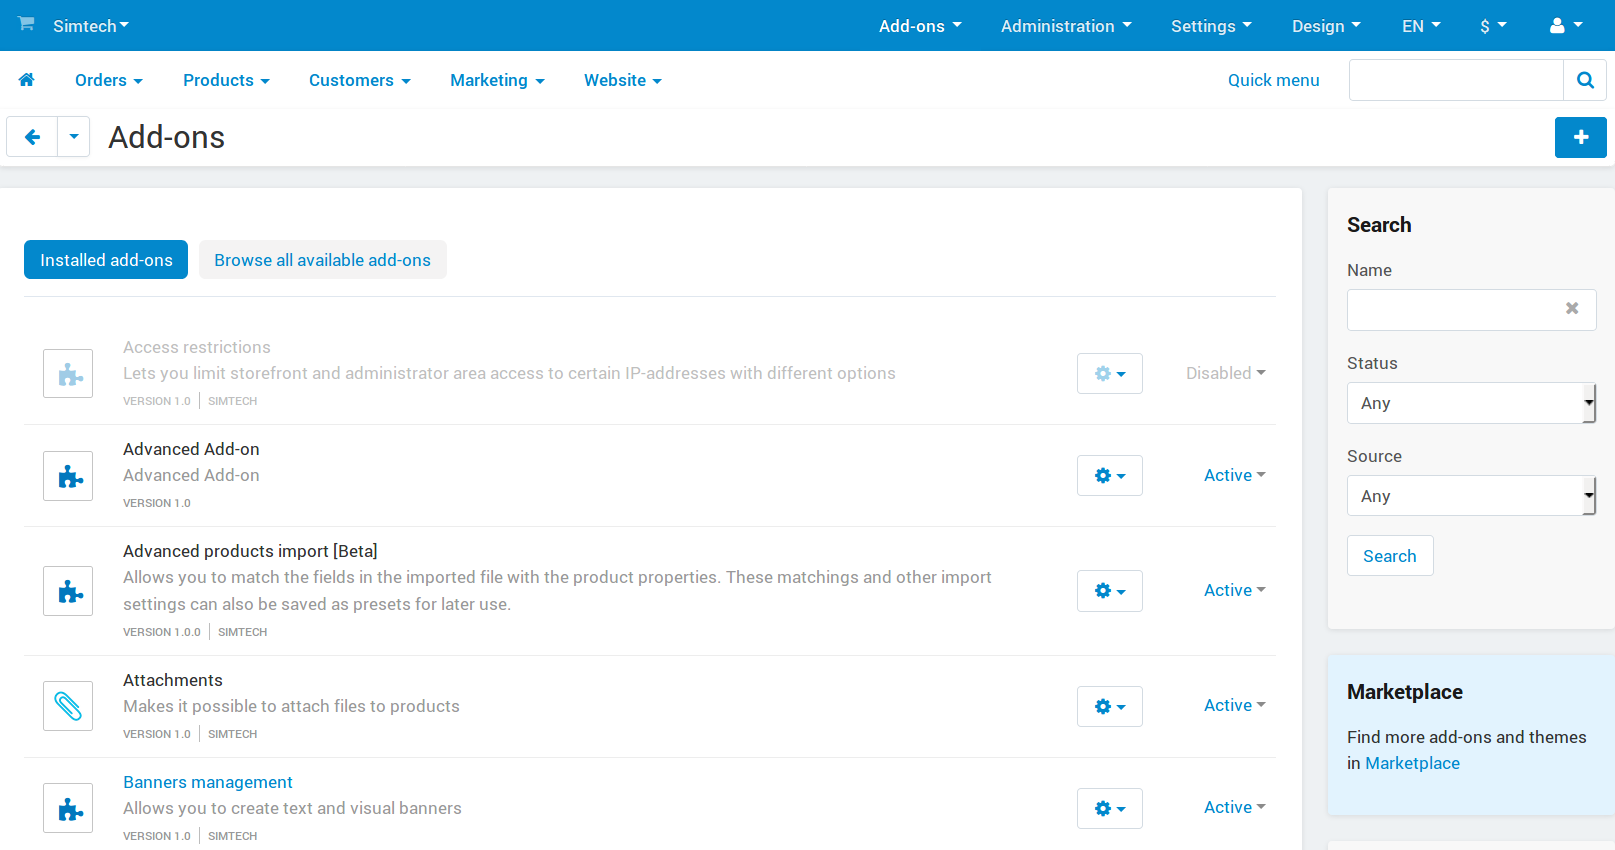
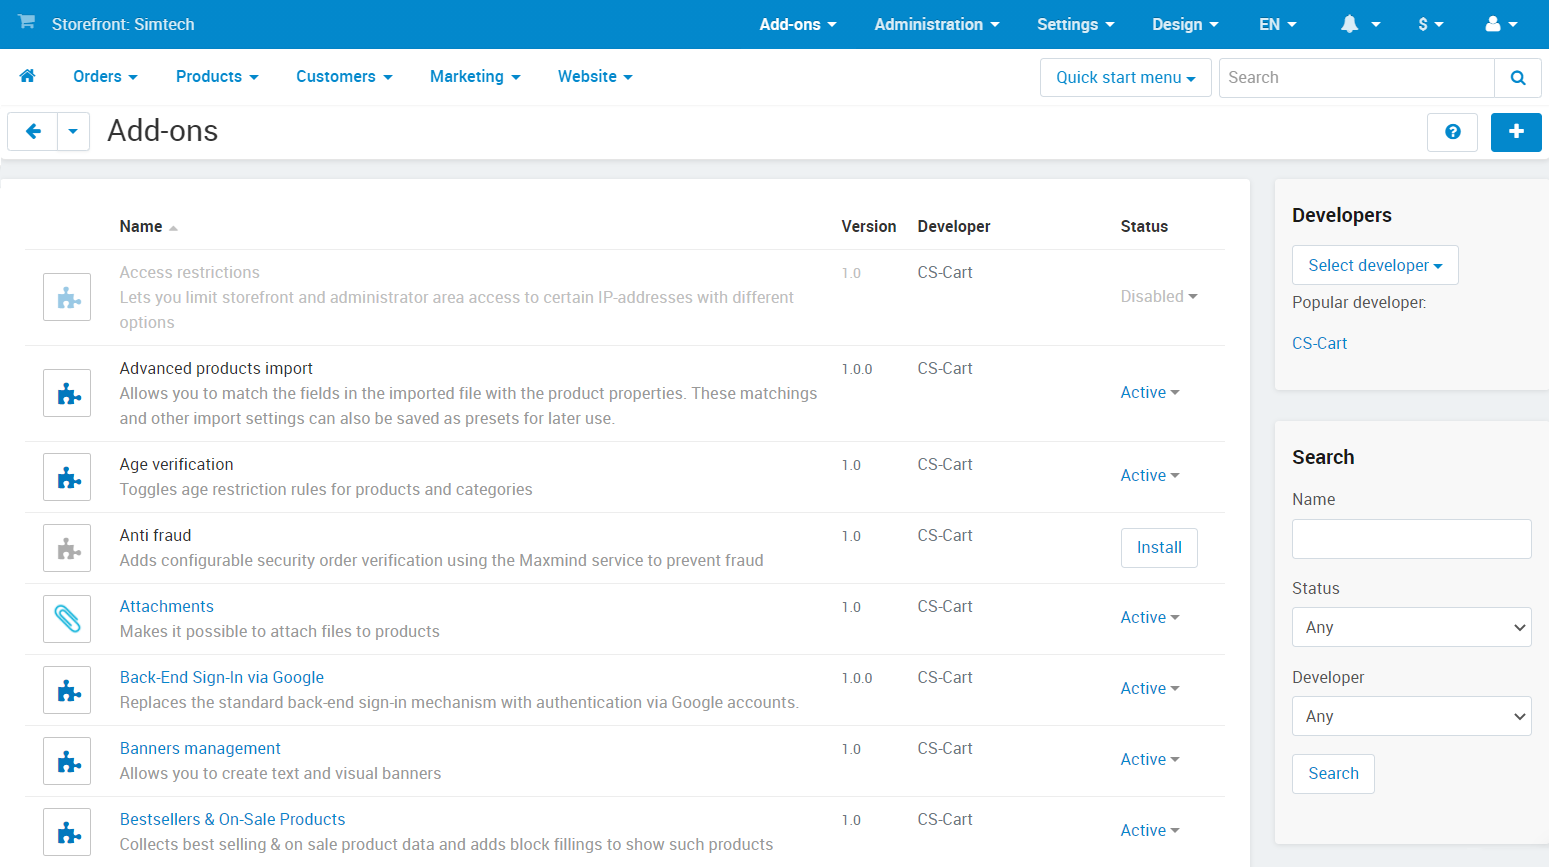
Ru&En: User Guide: Addons: Browse all available add-ons deleted

diff --git a/en/user_guide/addons/1manage_addons.rst b/en/user_guide/addons/1manage_addons.rst
@@ -2,7 +2,7 @@
 How To: Manage Add-ons
 **********************
 
-The **Addons → Manage add-ons** section contains a list of installed add-ons in the **Installed add-ons** tab, a list of add-ons available for installation in the **Browse all available add-ons tab**, and a few control elements to manage add-ons.
+The **Addons → Manage add-ons** section contains a list of installed and available for installation add-ons, and a few control elements to manage add-ons.
 
 .. image:: img/manage_addons.png
     :align: center
@@ -63,7 +63,7 @@ To upload a new add-on:
     
 .. important ::
 
-    Before uploading an add-on from archive make sure that there is no such an add-on among the modules available for installation in the **Browse all available add-ons** tab.
+    Before uploading an add-on from archive make sure that there is no such an add-on among the modules available for installation.
 
 Installing Add-ons Manually
 ***************************
@@ -84,8 +84,4 @@ An add-on is an archive with files and folders that match the structure of a CS-
 
 #. Go to **Add-ons → Manage add-ons** in the admin panel of your store.
 
-#. Switch to the **Browse all available add-ons** tab, find the new add-on and click **Install**.
-
-   .. image:: img/addon_installation.png
-       :align: center
-       :alt: Installing an add-on in the admin panel of CS-Cart.
+#. Find the new add-on and click **Install**.

diff --git a/en/user_guide/addons/eBay/ebay_install.rst b/en/user_guide/addons/eBay/ebay_install.rst
@@ -14,7 +14,7 @@ Step 1. Install eBay Synchronization Add-On
 
 1.2. Go to **Add-ons → Manage Add-ons**.
 
-1.3. Switch to the **Browse all available add-ons tab**, find the **eBay synchronization** add-on in the list, and click the **Install** button.
+1.3. Find the **eBay synchronization** add-on in the list, and click the **Install** button.
 
 1.4. Go back to the **Installed add-ons** tab. 
 
@@ -51,7 +51,7 @@ The application keys are unique identifiers that tell eBay which developer and a
     :align: center
     :alt: Generate the eBay Sandbox and Production keys at the eBay My Account page.
 
-2.5. Return to CS-Cart/Multi-Vendor Administration panel. Go to **Add-ons → Manage Add-ons**, switch to the **Installed add-ons** tab, and click on the **eBay synchronization** add-on.
+2.5. Return to CS-Cart/Multi-Vendor Administration panel. Go to **Add-ons → Manage Add-ons**, and click on the **eBay synchronization** add-on.
 
 2.6. Enter the **eBay DevID**, **eBay AppID**, and **eBay CertID** from Step 2.4. into the corresponding fields.
 

diff --git a/en/user_guide/addons/anti_fraud/set_af.rst b/en/user_guide/addons/anti_fraud/set_af.rst
@@ -9,11 +9,11 @@ How To: Set up Anti Fraud Add-on
 	CS-Cart is integrated with **minFraud** service that **MaxMind** offers. You are able to read about all features of this service `here <http://www.maxmind.com/app/ccv_overview>`_.
 
 *   In the Administration panel, go to **Add-ons → Manage add-ons**.
-*   Switch to the **Browse all available add-ons** tab and find the **Anti fraud** add-on. Click the **Install** button.
+*   Find the **Anti fraud** add-on. Click the **Install** button.
 
 .. note ::
 
-    If you have it installed, make sure that its status is *Active* in the **Installed add-ons** tab.
+    If you have it installed, make sure that its status is *Active*.
 
 *   Click the **gear** button next to the add-on and choose **Settings**.
 *   In the opened window enter your :doc:`Maxmind license key <../anti_fraud/maxmid_key>` and define the desired parameters in the following fields:

diff --git a/en/user_guide/addons/age_verification/set_av.rst b/en/user_guide/addons/age_verification/set_av.rst
@@ -6,10 +6,10 @@ The **Age verification** add-on allows the administrator to limit the access to 
 
 To set up the add-on:
 
-*   In the Administration panel, go to **Add-ons → Manage add-ons** and switch to the **Browse all available add-ons** tab.
+*   In the Administration panel, go to **Add-ons → Manage add-ons**.
 *   Find the **Age verification** add-on and click **Install**.
 
-If you have it installed, change its status to *Active* in the **Installed add-ons** tab.
+If you have it installed, change its status to *Active*.
 
 Now you can specify age access for particular products or categories:
 

diff --git a/en/user_guide/addons/blog/create_blog.rst b/en/user_guide/addons/blog/create_blog.rst
@@ -6,8 +6,8 @@ To create a built-in blog in your store:
 
 Install the **Blog** add-on (if it is not installed yet):
 
-*	In the Administration panel of your store, go to **Add-ons → Manage add-ons** and switch to the **Browse all available add-ons** tab.
-*	Find the **Blog** add-on and click the **Install** button. The add-on will appear in the **Installed add-ons** tab.
+*	In the Administration panel of your store, go to **Add-ons → Manage add-ons**.
+*	Find the **Blog** add-on and click the **Install** button.
 *	Activate the add-on changing its status to *Active*.
 
 Create your blog posts:

diff --git a/ru/user_guide/addons/google_backend_signin/settings.rst b/ru/user_guide/addons/google_backend_signin/settings.rst
@@ -14,8 +14,6 @@
 
 #. Откройте страницу **Модули → Управление модулями** в панели администратора магазина.
 
-#. Перейдите на вкладку **Просмотреть все доступные модули**.
-
 #. Установите модуль **Вход в панель администратора через Google**.
 
 #. Нажмите на название модуля, чтобы открыть его настройки. Там понадобится сделать две вещи:

diff --git a/en/user_guide/addons/stripe_connect/settings.rst b/en/user_guide/addons/stripe_connect/settings.rst
@@ -4,11 +4,7 @@ How To: Install and Configure Stripe Connect Payments Add-on
 
 #. Open the Administration panel and go to **Add-ons → Manage add-ons**.
 
-#. Switch to the **Browse all available add-ons** tab and install **Stripe Connect payments**.
-
-   .. image:: img/stripe_connect_install.png
-       :align: center
-       :alt: Find and install the Stripe Connect Payments add-on.
+#. Find and install the **Stripe Connect payments** add-on.
 
    .. important::
 

diff --git a/en/user_guide/addons/ping_payments/index.rst b/en/user_guide/addons/ping_payments/index.rst
@@ -17,13 +17,9 @@ Installing the Add-on
 
 #. In the Administration panel go to **Add-ons → Manage add-ons**.
 
-#. Switch to the **Browse all available add-ons** tab.
-
 #. Find the **Ping++ Payments** add-on in the list.
 
 #. Click the **Install** button right next to it.
-
-After that you’ll be redirected to the Installed add-ons tab where the add-on will appear.
 
 .. image:: img/ping_addon.png
 	:align: center

diff --git a/en/user_guide/addons/searchanise/index.rst b/en/user_guide/addons/searchanise/index.rst
@@ -8,8 +8,6 @@ To set up the **Searchanise** add-on:
 
 #. In the administration panel go to **Add-ons → Manage add-ons**.
 
-#. Switch to the **Browse all available add-ons** tab.
-
 #. Find the **Searchanise** add-on and click the **Install** button next to it.
 
 #. Once the add-on is installed, find it on the list of add-ons and click on its name.

diff --git a/en/user_guide/addons/google_backend_signin/settings.rst b/en/user_guide/addons/google_backend_signin/settings.rst
@@ -14,8 +14,6 @@ Step 1. Set Up the Add-on
 
 #. Go to **Add-ons → Manage add-ons** in the administration panel of your store.
 
-#. Switch to the **Browse all available add-ons** tab.
-
 #. Install the **Back-End Sign-In via Google** add-on.
 
 #. Click the name of the newly-installed add-on to open its settings. You'll need to do 2 things there:

diff --git a/en/user_guide/addons/gdpr/compliance.rst b/en/user_guide/addons/gdpr/compliance.rst
@@ -12,8 +12,6 @@ Step 1. Install and Configure the Add-on
 
 #. In the Administration panel, go to **Add-ons → Manage add-ons**.
 
-#. Switch to the **Browse all available add-ons** tab.
-
 #. Find the **GDPR Compliance (EU)** add-on and click **Install** next to it.
 
    .. image:: img/gdpr-addon.png
